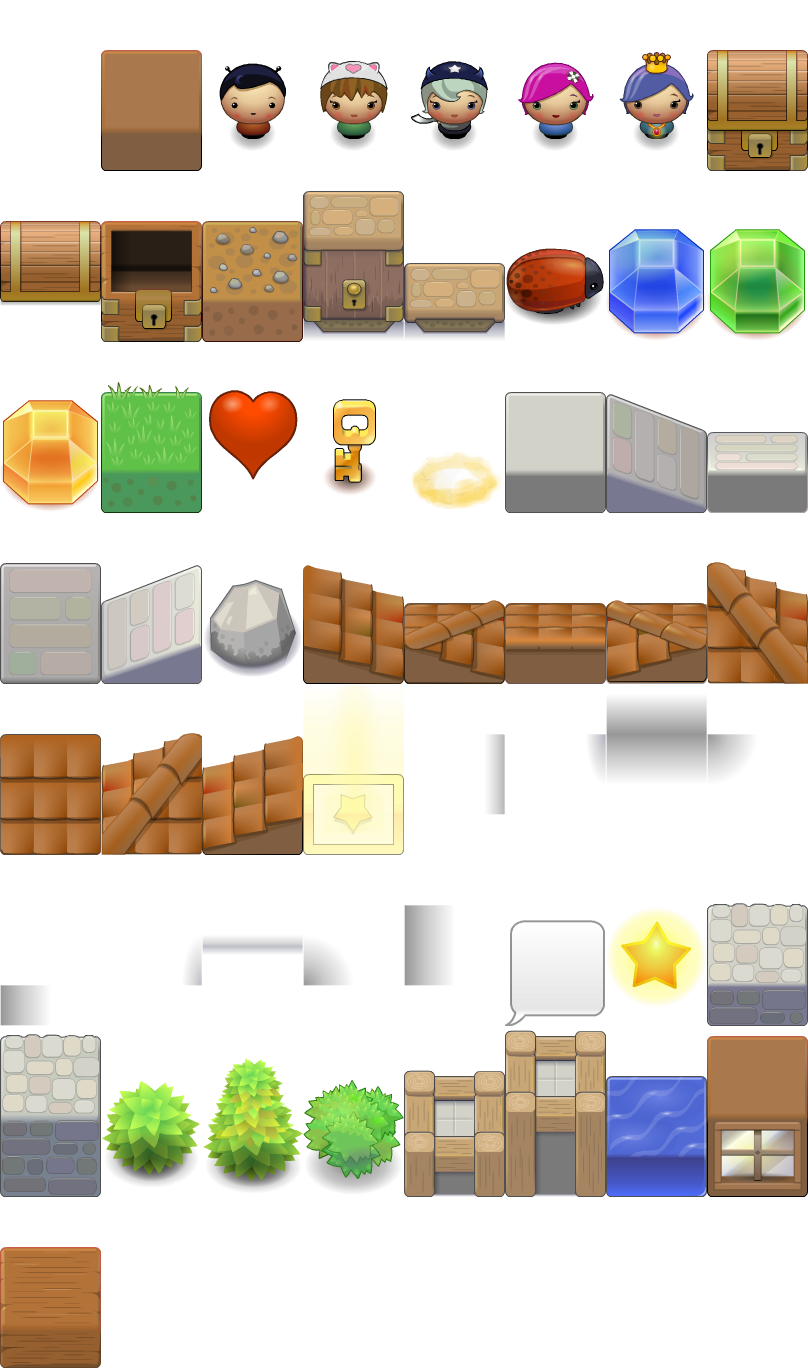
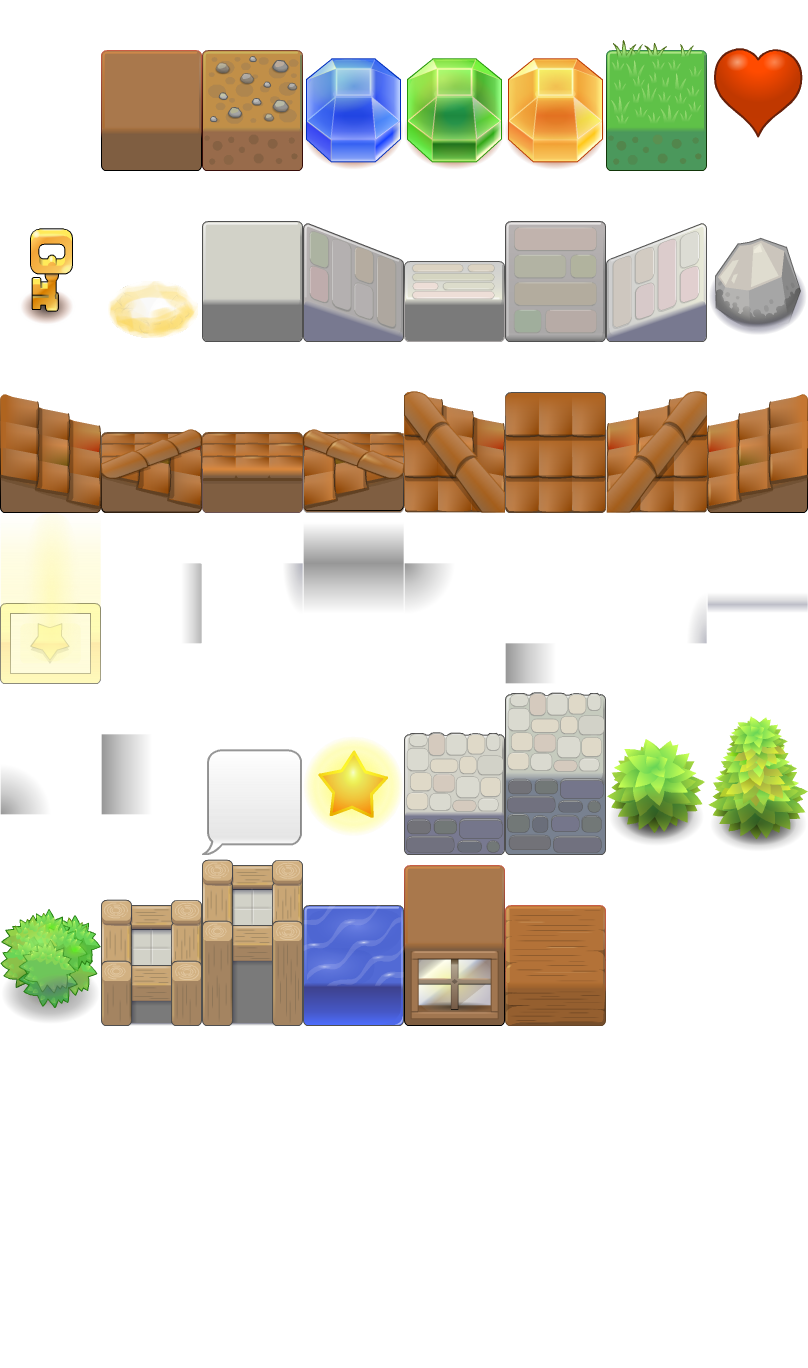
Remove tiles
Remove tiles I cannot see myself using in this game at all in this game.

diff --git a/src/main/webapp/script/blocks.js b/src/main/webapp/script/blocks.js
@@ -1,58 +1,47 @@
 // Tile constants. Do not edit, auto-generated by create-sheet.sh
 var BLOCK_EMPTY = 0;
 var BLOCK_BROWN_BLOCK = 1;
-var BLOCK_CHARACTER_BOY = 2;
-var BLOCK_CHARACTER_CAT_GIRL = 3;
-var BLOCK_CHARACTER_HORN_GIRL = 4;
-var BLOCK_CHARACTER_PINK_GIRL = 5;
-var BLOCK_CHARACTER_PRINCESS_GIRL = 6;
-var BLOCK_CHEST_CLOSED = 7;
-var BLOCK_CHEST_LID = 8;
-var BLOCK_CHEST_OPEN = 9;
-var BLOCK_DIRT_BLOCK = 10;
-var BLOCK_DOOR_TALL_CLOSED = 11;
-var BLOCK_DOOR_TALL_OPEN = 12;
-var BLOCK_ENEMY_BUG = 13;
-var BLOCK_GEM_BLUE = 14;
-var BLOCK_GEM_GREEN = 15;
-var BLOCK_GEM_ORANGE = 16;
-var BLOCK_GRASS_BLOCK = 17;
-var BLOCK_HEART = 18;
-var BLOCK_KEY = 19;
-var BLOCK_PAD = 20;
-var BLOCK_PLAIN_BLOCK = 21;
-var BLOCK_RAMP_EAST = 22;
-var BLOCK_RAMP_NORTH = 23;
-var BLOCK_RAMP_SOUTH = 24;
-var BLOCK_RAMP_WEST = 25;
-var BLOCK_ROCK = 26;
-var BLOCK_ROOF_EAST = 27;
-var BLOCK_ROOF_NORTH_EAST = 28;
-var BLOCK_ROOF_NORTH = 29;
-var BLOCK_ROOF_NORTH_WEST = 30;
-var BLOCK_ROOF_SOUTH_EAST = 31;
-var BLOCK_ROOF_SOUTH = 32;
-var BLOCK_ROOF_SOUTH_WEST = 33;
-var BLOCK_ROOF_WEST = 34;
-var BLOCK_SELECTOR = 35;
-var BLOCK_SHADOW_EAST = 36;
-var BLOCK_SHADOW_NORTH_EAST = 37;
-var BLOCK_SHADOW_NORTH = 38;
-var BLOCK_SHADOW_NORTH_WEST = 39;
-var BLOCK_SHADOW_SIDE_WEST = 40;
-var BLOCK_SHADOW_SOUTH_EAST = 41;
-var BLOCK_SHADOW_SOUTH = 42;
-var BLOCK_SHADOW_SOUTH_WEST = 43;
-var BLOCK_SHADOW_WEST = 44;
-var BLOCK_SPEECHBUBBLE = 45;
-var BLOCK_STAR = 46;
-var BLOCK_STONE_BLOCK = 47;
-var BLOCK_STONE_BLOCK_TALL = 48;
-var BLOCK_TREE_SHORT = 49;
-var BLOCK_TREE_TALL = 50;
-var BLOCK_TREE_UGLY = 51;
-var BLOCK_WALL_BLOCK = 52;
-var BLOCK_WALL_BLOCK_TALL = 53;
-var BLOCK_WATER_BLOCK = 54;
-var BLOCK_WINDOW_TALL = 55;
-var BLOCK_WOOD_BLOCK = 56;
+var BLOCK_DIRT_BLOCK = 2;
+var BLOCK_GEM_BLUE = 3;
+var BLOCK_GEM_GREEN = 4;
+var BLOCK_GEM_ORANGE = 5;
+var BLOCK_GRASS_BLOCK = 6;
+var BLOCK_HEART = 7;
+var BLOCK_KEY = 8;
+var BLOCK_PAD = 9;
+var BLOCK_PLAIN_BLOCK = 10;
+var BLOCK_RAMP_EAST = 11;
+var BLOCK_RAMP_NORTH = 12;
+var BLOCK_RAMP_SOUTH = 13;
+var BLOCK_RAMP_WEST = 14;
+var BLOCK_ROCK = 15;
+var BLOCK_ROOF_EAST = 16;
+var BLOCK_ROOF_NORTH_EAST = 17;
+var BLOCK_ROOF_NORTH = 18;
+var BLOCK_ROOF_NORTH_WEST = 19;
+var BLOCK_ROOF_SOUTH_EAST = 20;
+var BLOCK_ROOF_SOUTH = 21;
+var BLOCK_ROOF_SOUTH_WEST = 22;
+var BLOCK_ROOF_WEST = 23;
+var BLOCK_SELECTOR = 24;
+var BLOCK_SHADOW_EAST = 25;
+var BLOCK_SHADOW_NORTH_EAST = 26;
+var BLOCK_SHADOW_NORTH = 27;
+var BLOCK_SHADOW_NORTH_WEST = 28;
+var BLOCK_SHADOW_SIDE_WEST = 29;
+var BLOCK_SHADOW_SOUTH_EAST = 30;
+var BLOCK_SHADOW_SOUTH = 31;
+var BLOCK_SHADOW_SOUTH_WEST = 32;
+var BLOCK_SHADOW_WEST = 33;
+var BLOCK_SPEECHBUBBLE = 34;
+var BLOCK_STAR = 35;
+var BLOCK_STONE_BLOCK = 36;
+var BLOCK_STONE_BLOCK_TALL = 37;
+var BLOCK_TREE_SHORT = 38;
+var BLOCK_TREE_TALL = 39;
+var BLOCK_TREE_UGLY = 40;
+var BLOCK_WALL_BLOCK = 41;
+var BLOCK_WALL_BLOCK_TALL = 42;
+var BLOCK_WATER_BLOCK = 43;
+var BLOCK_WINDOW_TALL = 44;
+var BLOCK_WOOD_BLOCK = 45;

diff --git a/src/main/java/org/boom/level/Block.java b/src/main/java/org/boom/level/Block.java
@@ -2,5 +2,5 @@ package org.boom.level;
 
 /** Enum for level tile types. Do not edit, auto-generated by create-sheet.sh */
 public enum Block {
-    EMPTY, BROWN_BLOCK, CHARACTER_BOY, CHARACTER_CAT_GIRL, CHARACTER_HORN_GIRL, CHARACTER_PINK_GIRL, CHARACTER_PRINCESS_GIRL, CHEST_CLOSED, CHEST_LID, CHEST_OPEN, DIRT_BLOCK, DOOR_TALL_CLOSED, DOOR_TALL_OPEN, ENEMY_BUG, GEM_BLUE, GEM_GREEN, GEM_ORANGE, GRASS_BLOCK, HEART, KEY, PAD, PLAIN_BLOCK, RAMP_EAST, RAMP_NORTH, RAMP_SOUTH, RAMP_WEST, ROCK, ROOF_EAST, ROOF_NORTH_EAST, ROOF_NORTH, ROOF_NORTH_WEST, ROOF_SOUTH_EAST, ROOF_SOUTH, ROOF_SOUTH_WEST, ROOF_WEST, SELECTOR, SHADOW_EAST, SHADOW_NORTH_EAST, SHADOW_NORTH, SHADOW_NORTH_WEST, SHADOW_SIDE_WEST, SHADOW_SOUTH_EAST, SHADOW_SOUTH, SHADOW_SOUTH_WEST, SHADOW_WEST, SPEECHBUBBLE, STAR, STONE_BLOCK, STONE_BLOCK_TALL, TREE_SHORT, TREE_TALL, TREE_UGLY, WALL_BLOCK, WALL_BLOCK_TALL, WATER_BLOCK, WINDOW_TALL, WOOD_BLOCK
+    EMPTY, BROWN_BLOCK, DIRT_BLOCK, GEM_BLUE, GEM_GREEN, GEM_ORANGE, GRASS_BLOCK, HEART, KEY, PAD, PLAIN_BLOCK, RAMP_EAST, RAMP_NORTH, RAMP_SOUTH, RAMP_WEST, ROCK, ROOF_EAST, ROOF_NORTH_EAST, ROOF_NORTH, ROOF_NORTH_WEST, ROOF_SOUTH_EAST, ROOF_SOUTH, ROOF_SOUTH_WEST, ROOF_WEST, SELECTOR, SHADOW_EAST, SHADOW_NORTH_EAST, SHADOW_NORTH, SHADOW_NORTH_WEST, SHADOW_SIDE_WEST, SHADOW_SOUTH_EAST, SHADOW_SOUTH, SHADOW_SOUTH_WEST, SHADOW_WEST, SPEECHBUBBLE, STAR, STONE_BLOCK, STONE_BLOCK_TALL, TREE_SHORT, TREE_TALL, TREE_UGLY, WALL_BLOCK, WALL_BLOCK_TALL, WATER_BLOCK, WINDOW_TALL, WOOD_BLOCK
 }
